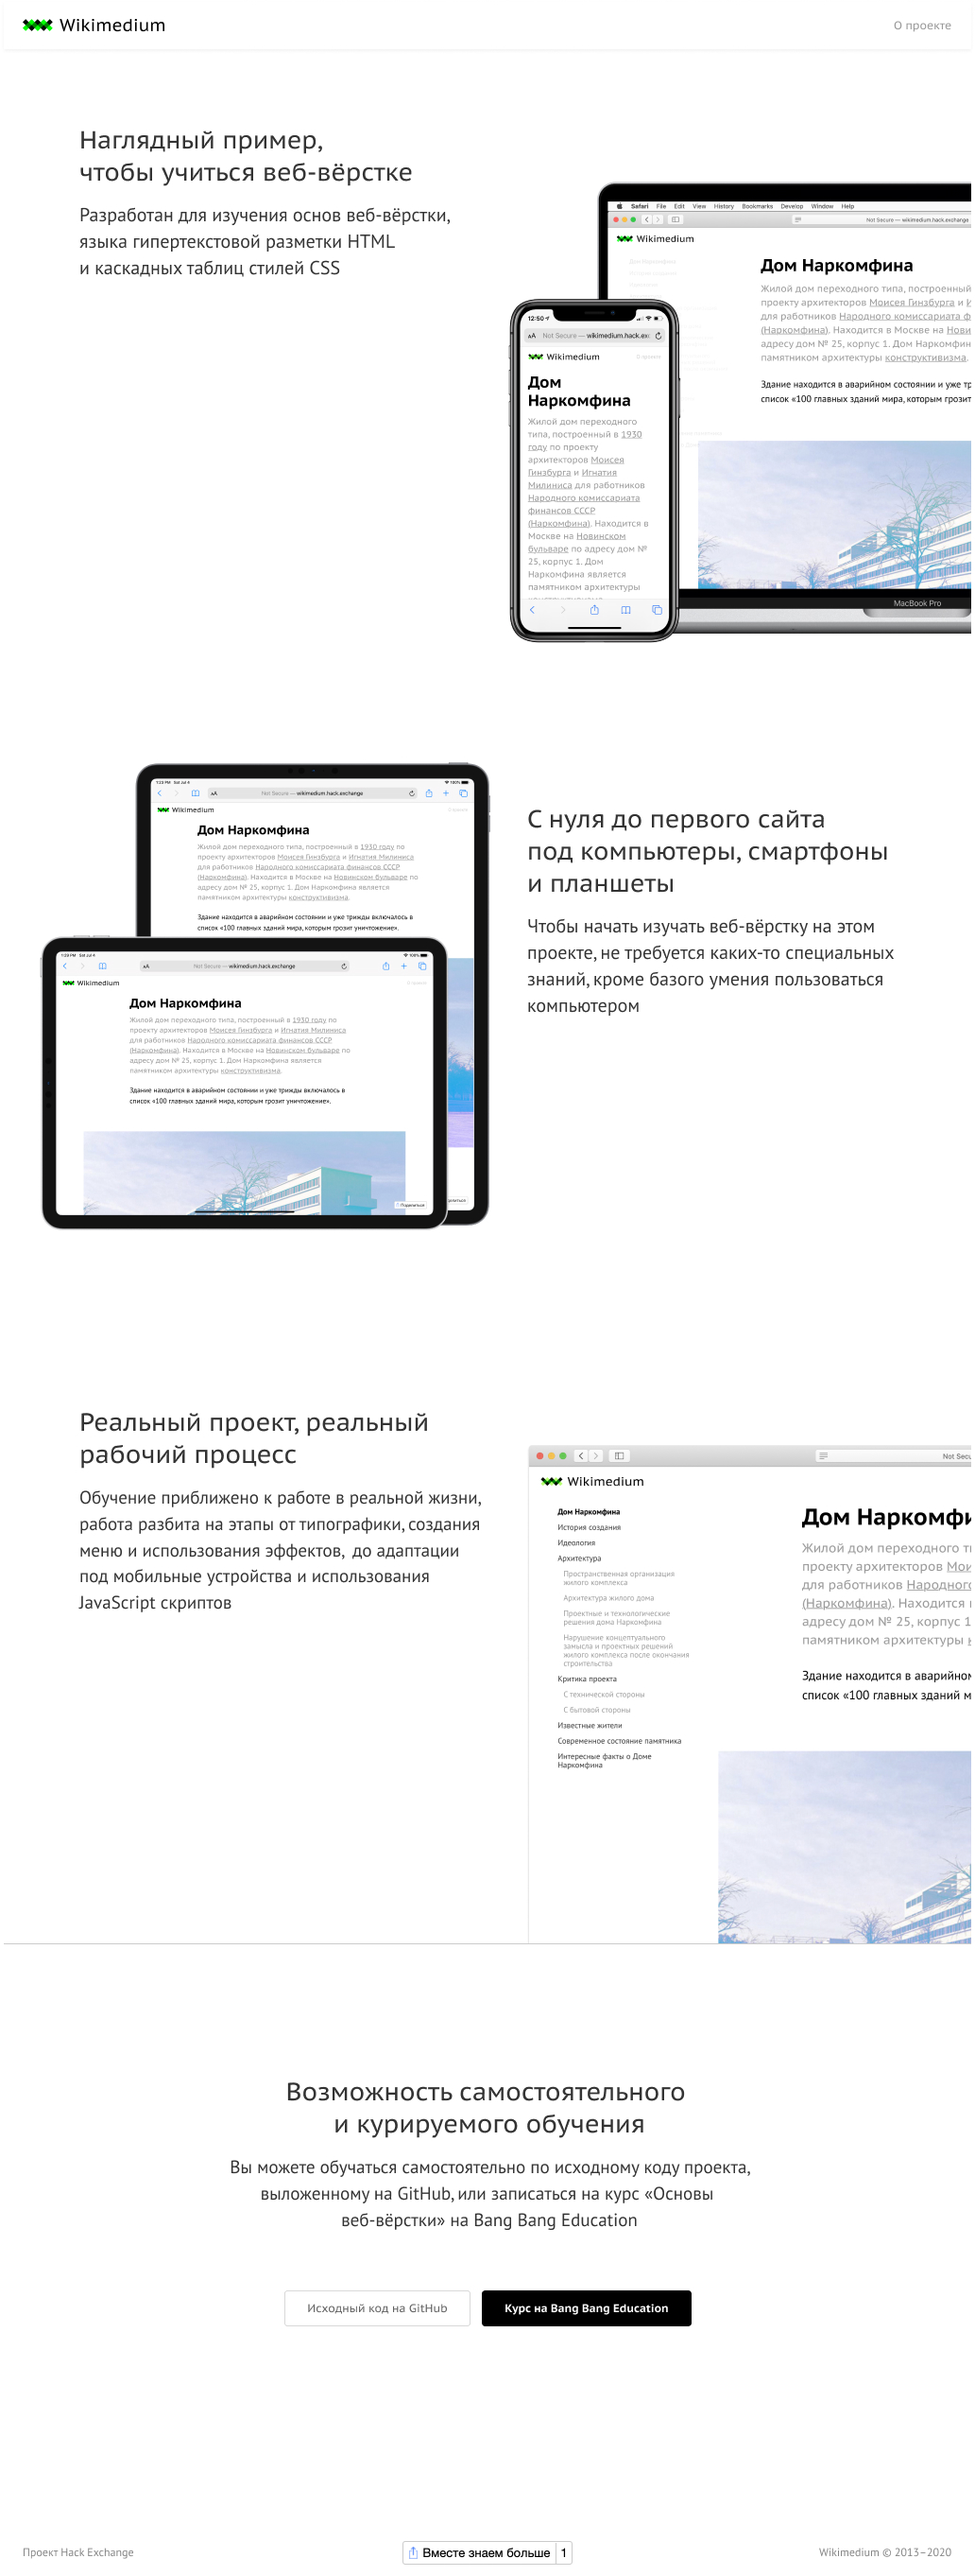
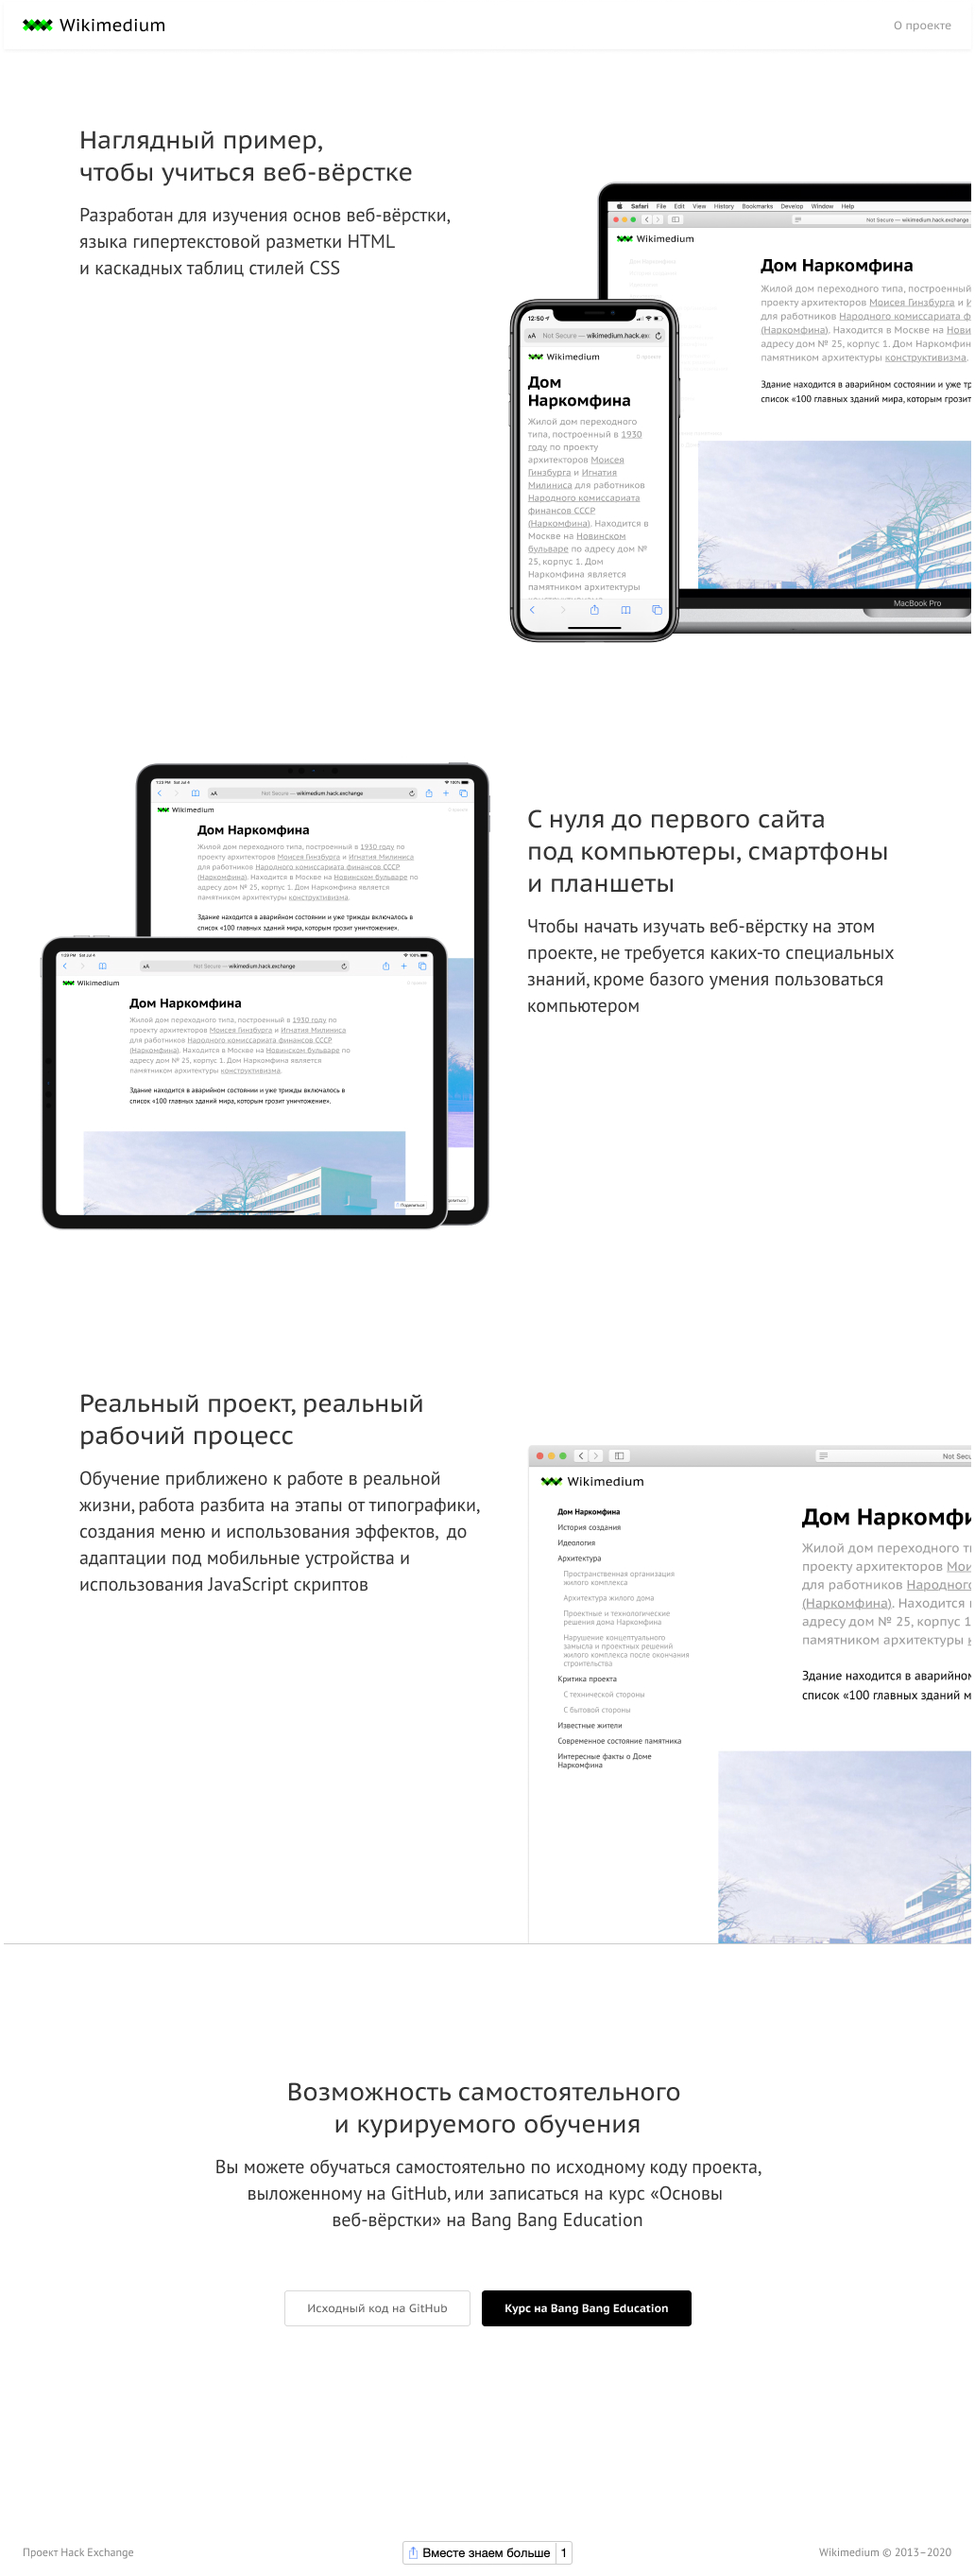
Homework done

Changed region(s): [[0.062, 0.5305, 0.4961, 0.6241], [0.3411, 0.8113, 0.7442, 0.8737], [0.2791, 0.8425, 0.3101, 0.8737]]

diff --git a/stylesheets/landing.css b/stylesheets/landing.css
@@ -199,6 +199,23 @@ body.landing {
     width: 1288px;
     height: 816px;
   }
+
+  #section-4 .buttonContainer {
+    margin-top: 60px;
+  }
+
+  #section-4 .primary,
+  #section-4 .secondary {
+    height: 38px;
+    padding: 0 24px;
+    line-height: 38px;
+    border-radius: 3px;
+    font-size: 12px;
+  }
+
+  #section-4 .secondary {
+    margin-right: 12px;
+  }
 }
 
 @media (max-width: 1280px) {
@@ -207,7 +224,7 @@ body.landing {
   }
 }
 
-@media (max-width: 1194px) {
+@media (max-width: 1250px) {
   body.landing {
     background-image: url('../images/1194.jpg');
   }
@@ -245,6 +262,15 @@ body.landing {
     height: 487px;
   }
 
+  #section-2 .contentContainer {
+    width: 942px;
+    height: 494px;
+  }
+
+  #section-2 .textContainer {
+    top: 44px;
+  }
+
   #section-2-image {
     width: 476px;
     height: 494px;
@@ -255,6 +281,14 @@ body.landing {
     left: 556px;
     width: 1020px;
     height: 646px;
+  }
+
+  #section-4 {
+    padding-top: 140px;
+  }
+
+  #section-4 .textContainer {
+    width: 580px;
   }
 }
 

diff --git a/stylesheets/menubar.css b/stylesheets/menubar.css
@@ -54,3 +54,16 @@ menu a.current:hover {
     padding: 0 20px;
   }
 }
+
+@media (max-width: 1250px) {
+  menu a {
+    font-size: 12px;
+    line-height: 16px;
+  }
+
+  menu a:first-child {
+    width: 150px;
+    height: 14px;
+    background-size: 150px 14px;
+  }
+}

diff --git a/stylesheets/footer.css b/stylesheets/footer.css
@@ -17,3 +17,12 @@ footer {
     padding: 0 20px;
   }
 }
+
+@media (max-width: 1250px) {
+  footer {
+    height: 50px;
+    margin: -50px auto 0;
+    font-size: 12px;
+    line-height: 16px;
+  }
+}
